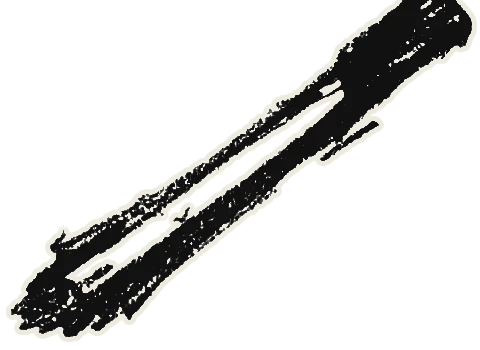
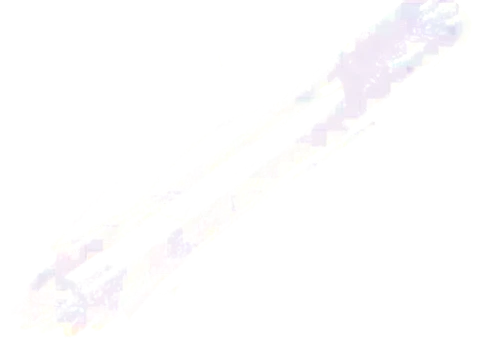
Experiment: earlier marker back; a scroll gesture is one drawn step - objects unravel and redraw at the next stop

Changed region(s): [[0.0, 0.0, 1.0, 1.0]]

diff --git a/index.html b/index.html
@@ -3793,6 +3793,93 @@
     gsap.to('#hnLaptop, #hnBook, #hnMug', { opacity: 0, duration: 0.25, overwrite: true });
     gsap.to(cam, { lift: 0, duration: 0.8, ease: 'power2.inOut', overwrite: true });
   }
+  // SCROLL AS A DRAWN CHANGE (experiment): a scroll gesture moves the desk one stop - but instead of sliding there, every
+  // object's outline unravels from where it lies and a crayon line runs to where it will lie and draws its own lines
+  // there, then its colours are coloured in (as the intro turns into the desk). One step at a time.
+  (() => {
+    const NS = 'http://www.w3.org/2000/svg', N = 96, RUN = 0.95, FILL = 0.35;
+    const SEL = ['#hpLaptop .hprop', '#hpPhone .hprop', '#hpBook .hprop', '#dk-paper > image', '#dk-marker > image', '#dk-scissors > image', '#dkp-scissors image', '#dk-sketchbook > image', '#dkp-sketchbook image', '#dk-camera > image'];
+    const ov = document.createElementNS(NS, 'svg'), lv = document.createElementNS(NS, 'svg');
+    for (const [s, z] of [[ov, 40], [lv, 41]]) { s.style.cssText = `position:fixed;inset:0;width:100%;height:100%;z-index:${z};pointer-events:none;display:none;overflow:visible`; document.body.appendChild(s); }
+    const of = M => [M.a, M.b, M.c, M.d, M.e, M.f], mul = (m, n) => [m[0] * n[0] + m[2] * n[1], m[1] * n[0] + m[3] * n[1], m[0] * n[2] + m[2] * n[3], m[1] * n[2] + m[3] * n[3], m[0] * n[4] + m[2] * n[5] + m[4], m[1] * n[4] + m[3] * n[5] + m[5]];
+    const ap = (m, x, y) => [m[0] * x + m[2] * y + m[4], m[1] * x + m[3] * y + m[5]], A = (e, k) => +e.getAttribute(k) || 0;
+    const cum = P => { const L = [0]; for (let i = 1; i < P.length; i++) L.push(L[i - 1] + Math.hypot(P[i][0] - P[i - 1][0], P[i][1] - P[i - 1][1])); return L; };
+    const even = poly => { const P = poly.concat([poly[0]]), L = cum(P), out = []; let k = 1; for (let i = 0; i < N; i++) { const d = L[L.length - 1] * i / N; while (k < L.length - 1 && L[k] < d) k++; const f = (d - L[k - 1]) / ((L[k] - L[k - 1]) || 1); out.push([P[k - 1][0] + (P[k][0] - P[k - 1][0]) * f, P[k - 1][1] + (P[k][1] - P[k - 1][1]) * f]); } return out; };
+    const hull = pts => { const P = pts.slice().sort((a, b) => a[0] - b[0] || a[1] - b[1]), cr = (o, a, b) => (a[0] - o[0]) * (b[1] - o[1]) - (a[1] - o[1]) * (b[0] - o[0]), lo = [], up = [];
+      for (const p of P) { while (lo.length >= 2 && cr(lo[lo.length - 2], lo[lo.length - 1], p) <= 0) lo.pop(); lo.push(p); }
+      for (let i = P.length - 1; i >= 0; i--) { const p = P[i]; while (up.length >= 2 && cr(up[up.length - 2], up[up.length - 1], p) <= 0) up.pop(); up.push(p); } up.pop(); lo.pop(); return lo.concat(up); };
+    const HULL = {};                                  // each picture's outline in its own 0-1 box (worked out once)
+    const hullOf = src => HULL[src] || (HULL[src] = new Promise(res => { const im = new Image(); im.crossOrigin = 'anonymous'; im.onload = () => {
+      const W = 90, H = Math.max(8, Math.round(90 * im.naturalHeight / im.naturalWidth)), c = document.createElement('canvas'); c.width = W; c.height = H; const g = c.getContext('2d'); g.drawImage(im, 0, 0, W, H);
+      let d; try { d = g.getImageData(0, 0, W, H).data; } catch (e) { return res([[0, 0], [1, 0], [1, 1], [0, 1]]); }
+      const p = []; for (let y = 0; y < H; y++) for (let x = 0; x < W; x++) if (d[(y * W + x) * 4 + 3] > 70) p.push([(x + 0.5) / W, (y + 0.5) / H]);
+      res(p.length > 3 ? hull(p) : [[0, 0], [1, 0], [1, 1], [0, 1]]); }; im.onerror = () => res([[0, 0], [1, 0], [1, 1], [0, 1]]); im.src = src; }));
+    const srcOf = el => el.dataset.orig || el.getAttribute('href');
+    addEventListener('load', () => setTimeout(() => SEL.forEach(s => { const e = document.querySelector(s); if (e) hullOf(srcOf(e)); }), 1200));
+    const shot = el => { const M = of(el.getScreenCTM()), U = mul(M, [A(el, 'width'), 0, 0, A(el, 'height'), A(el, 'x'), A(el, 'y')]); return { P: of(el.parentNode.getScreenCTM()), U }; };
+    const ring = (h, U) => even(h.map(q => ap(U, q[0], q[1])));
+    const near = (R, p) => { let b = 0, bd = 1e9; R.forEach((q, i) => { const d = Math.hypot(q[0] - p[0], q[1] - p[1]); if (d < bd) { bd = d; b = i; } }); return b; };
+    const rot = (R, k) => R.slice(k).concat(R.slice(0, k));
+    const slice = (P, L, a, b) => { if (b <= a) return []; const at = d => { let i = 1; while (i < L.length - 1 && L[i] < d) i++; const f = (d - L[i - 1]) / ((L[i] - L[i - 1]) || 1); return [P[i - 1][0] + (P[i][0] - P[i - 1][0]) * f, P[i - 1][1] + (P[i][1] - P[i - 1][1]) * f]; };
+      const out = [at(a)]; for (let i = 0; i < P.length; i++) if (L[i] > a && L[i] < b) out.push(P[i]); out.push(at(b)); return out; };
+    const pd = P => P.map((p, i) => (i ? 'L' : 'M') + p[0].toFixed(1) + ' ' + p[1].toFixed(1)).join(' ');
+    const span = R => { const xs = R.map(p => p[0]), ys = R.map(p => p[1]); return Math.min(Math.max(...xs) - Math.min(...xs), Math.max(...ys) - Math.min(...ys)); };
+    const ease = x => 0.65 * x + 0.35 * x * x * (3 - 2 * x), c01 = x => Math.min(1, Math.max(0, x));
+    let busy = false, acc = 0, accT = 0, n = 0;
+    const copy = (el, s, id, erase) => {               // a copy of the picture where it was / will be, behind a mask in screen units
+      const mk = document.createElementNS(NS, 'mask'); mk.setAttribute('id', id); mk.setAttribute('maskUnits', 'userSpaceOnUse'); mk.setAttribute('x', -1e4); mk.setAttribute('y', -1e4); mk.setAttribute('width', 2e4); mk.setAttribute('height', 2e4);
+      if (erase) mk.innerHTML = '<rect x="-10000" y="-10000" width="20000" height="20000" fill="#fff"/>';
+      const outer = document.createElementNS(NS, 'g'), inner = document.createElementNS(NS, 'g'); outer.setAttribute('mask', `url(#${id})`); inner.setAttribute('transform', 'matrix(' + s.P.join(' ') + ')');
+      const c = el.cloneNode(true); c.removeAttribute('id'); c.removeAttribute('class'); c.setAttribute('href', srcOf(el)); inner.appendChild(c); outer.appendChild(inner); ov.appendChild(mk); ov.appendChild(outer); return mk;
+    };
+    const stroke = (mk, P, col, w, grain) => { const p = document.createElementNS(NS, 'path'); p.setAttribute('d', pd(P)); p.setAttribute('fill', 'none'); p.setAttribute('stroke', col); p.setAttribute('stroke-width', w); p.setAttribute('stroke-linejoin', 'round'); p.setAttribute('stroke-linecap', grain ? 'butt' : 'round'); mk.appendChild(p); const L = p.getTotalLength(); p.style.strokeDasharray = L + ' ' + L; p.style.strokeDashoffset = L; return { p, L }; };
+    async function step(dir) {
+      busy = true;
+      const els = SEL.map(s => document.querySelector(s)).filter(e => e && e.getScreenCTM() && (e.closest('g') || e).style.display !== 'none');
+      const hs = await Promise.all(els.map(e => hullOf(srcOf(e))));
+      const before = els.map(shot);
+      cam.target = cam.pos = Math.round(cam.pos) + dir; for (const q in LAG) cam.lag[q] = cam.pos; cam.kv = 0.07; hideNotes(); camDraw();   // (straight to the next stop - unseen)
+      const after = els.map(shot);
+      ov.innerHTML = ''; lv.innerHTML = ''; const lines = document.createElementNS(NS, 'g'); lines.setAttribute('filter', 'url(#crayonLine)'); lv.appendChild(lines);
+      const T = els.map((el, i) => {
+        const S0 = ring(hs[i], before[i].U), T0 = ring(hs[i], after[i].U), cS = S0.reduce((a, p) => [a[0] + p[0] / N, a[1] + p[1] / N], [0, 0]), cT = T0.reduce((a, p) => [a[0] + p[0] / N, a[1] + p[1] / N], [0, 0]);
+        const S = rot(S0, near(S0, cT)); S.push(S[0]); const Tt = rot(T0, near(T0, cS));
+        const a = S[N], b = Tt[0], dx = b[0] - a[0], dy = b[1] - a[1], mx = (a[0] + b[0]) / 2 - dy * 0.15 * (i % 2 ? 1 : -1), my = (a[1] + b[1]) / 2 + dx * 0.15 * (i % 2 ? 1 : -1);
+        const br = Array.from({ length: 14 }, (_, k) => { const u = (k + 1) / 15; return [(1 - u) ** 2 * a[0] + 2 * (1 - u) * u * mx + u * u * b[0], (1 - u) ** 2 * a[1] + 2 * (1 - u) * u * my + u * u * b[1]]; });
+        const P = S.concat(br, Tt, [Tt[0]]), L = cum(P), Ls = L[N], Lb = L[N + 15], Lt = L[L.length - 1];
+        const er = stroke(copy(el, before[i], 'sm' + (++n), true), S, '#000', Math.max(24, span(S0) * 1.35));
+        const mk = copy(el, after[i], 'sm' + (++n), false), sz = span(T0);
+        const bandCore = stroke(mk, Tt.concat([Tt[0]]), '#fff', Math.max(30, sz * 1.25) * 0.82), band = stroke(mk, Tt.concat([Tt[0]]), '#fff', Math.max(30, sz * 1.25), true);
+        const ls = document.createElementNS(NS, 'path'); ls.setAttribute('fill', 'none'); ls.setAttribute('stroke', '#f3f1ea'); ls.setAttribute('stroke-width', 1.2); ls.setAttribute('stroke-linecap', 'round'); ls.setAttribute('stroke-linejoin', 'round'); lines.appendChild(ls);
+        return { P, L, Ls, Lb, Lt, er, band, bandCore, ls, d: i * 0.02 };
+      });
+      const camEl = document.getElementById('heroCam'); camEl.style.visibility = 'hidden';
+      ov.style.display = lv.style.display = 'block';
+      const t0 = performance.now(), total = RUN + FILL * 0.5 + 0.02 * T.length;
+      const tick = () => {
+        const tt = (performance.now() - t0) / 1000;
+        for (const th of T) {
+          const t = tt - th.d, u = ease(c01(t / RUN)), head = th.Ls + (th.Lt - th.Ls) * u, tail = Math.min(head, th.Lb * ease(c01(t / (RUN * 0.9))));
+          const K = 140 * (1 - u * u), seg = slice(th.P, th.L, Math.max(th.Ls, head - K), head);
+          th.ls.setAttribute('d', seg.length > 1 ? pd(seg) : '');
+          th.er.p.style.strokeDashoffset = th.er.L * (1 - c01(tail / th.Ls));
+          const on = c01((head - th.Lb) / (th.Lt - th.Lb)); for (const b of [th.band, th.bandCore]) b.p.style.strokeDashoffset = b.L * (1 - on);
+        }
+        if (tt < total) requestAnimationFrame(tick);
+        else { camEl.style.visibility = ''; ov.style.display = lv.style.display = 'none'; ov.innerHTML = lv.innerHTML = ''; busy = false; acc = 0; }
+      };
+      tick();
+    }
+    // a scroll gesture (wheel, trackpad or swipe) -> one step; nothing else moves the desk meanwhile
+    window.__stepMorph = (dy, touch) => {
+      if (isMobMain()) return false;
+      if (busy) return true;
+      const now = performance.now(); if (now - accT > 400) acc = 0; accT = now;
+      acc += touch ? -dy * 3 : dy;
+      if (Math.abs(acc) >= 40) { const d = Math.sign(acc); acc = 0; step(d); }
+      return true;
+    };
+  })();
   gsap.ticker.add((time, dt) => {
     if (!heroState.shown || caseOpen || about.open || contact.open) return;   // (Work open: still drawn - the objects sit at the edges round it)   // (covered by another page: nothing to redraw)
     const f = Math.min(3, dt / 16.67);                                      // frame-rate independent easing
@@ -3874,6 +3961,7 @@
     // normal swipe all the way there (soft landing); swiping again soon after goes a little quicker
     onRelease: self => {
       if (!mainActive() || !(self.event && /^(touch|pointer|mouse)/.test(self.event.type))) return;
+      if (KJ && window.__stepMorph && !isMobMain()) return;   // (no glide after a swipe: steps only)
       if (KJ) { cam.target += Math.max(-1, Math.min(1, -self.velocityY * 0.0022 * 0.05)); cam.kv = 0.06; return; }   // (the reference: a flick adds a little, at most one stop)   // (no extra from the flick speed: a swipe moves exactly as far as the finger went, so equal swipes travel equally; it then settles softly)   // (the reference: a flick adds a little, at most one stop)
       const dist = Math.abs(cam.tSum || 0), dir = Math.sign(cam.tSum || 0), now = performance.now();
       if (dist < 14 || !dir) return;
@@ -3890,6 +3978,7 @@
     onChangeY: self => {
     if (!mainActive()) return;
     const now = performance.now(), touch = !!(self.event && /^(touch|pointer|mouse)/.test(self.event.type));   // (finger or mouse drag, as the reference)
+    if (KJ && window.__stepMorph && window.__stepMorph(self.deltaY, touch)) return;   // (experiment: a scroll is one drawn step)
     if (KJ) { if (touch) { cam.target -= self.deltaY * 0.0022; cam.kv = 0.16;   /* (the reference) */ } else {
       // a trackpad (its steps aren't whole mouse notches, or they're small) moves at less than half the wheel's rate
       const ev0 = self.event || {}, pad = (ev0.wheelDeltaY !== undefined && ev0.wheelDeltaY % 120 !== 0) || Math.abs(self.deltaY) < 30, notches = Math.max(1, Math.round(Math.abs(self.deltaY) / (Math.abs(ev0.deltaY) || Math.abs(self.deltaY) || 1))), dS = self.deltaY * 0.0008;   // (wheel and trackpad alike, as the reference)   // (a mouse: every notch exactly 1/12 of the way, so 12 notches land exactly on the next stop)
